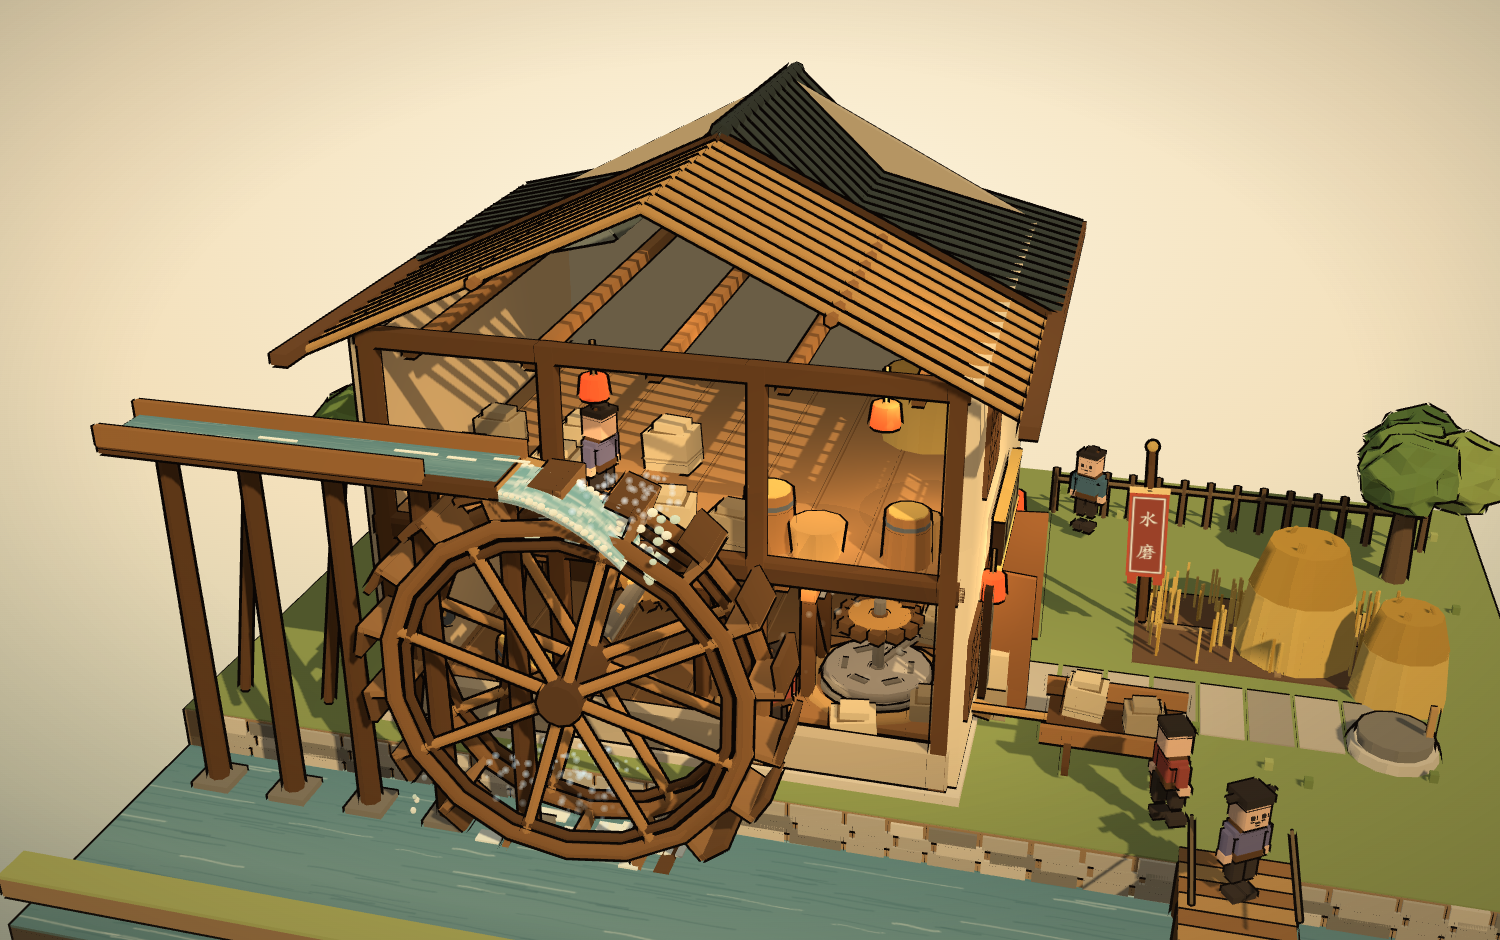
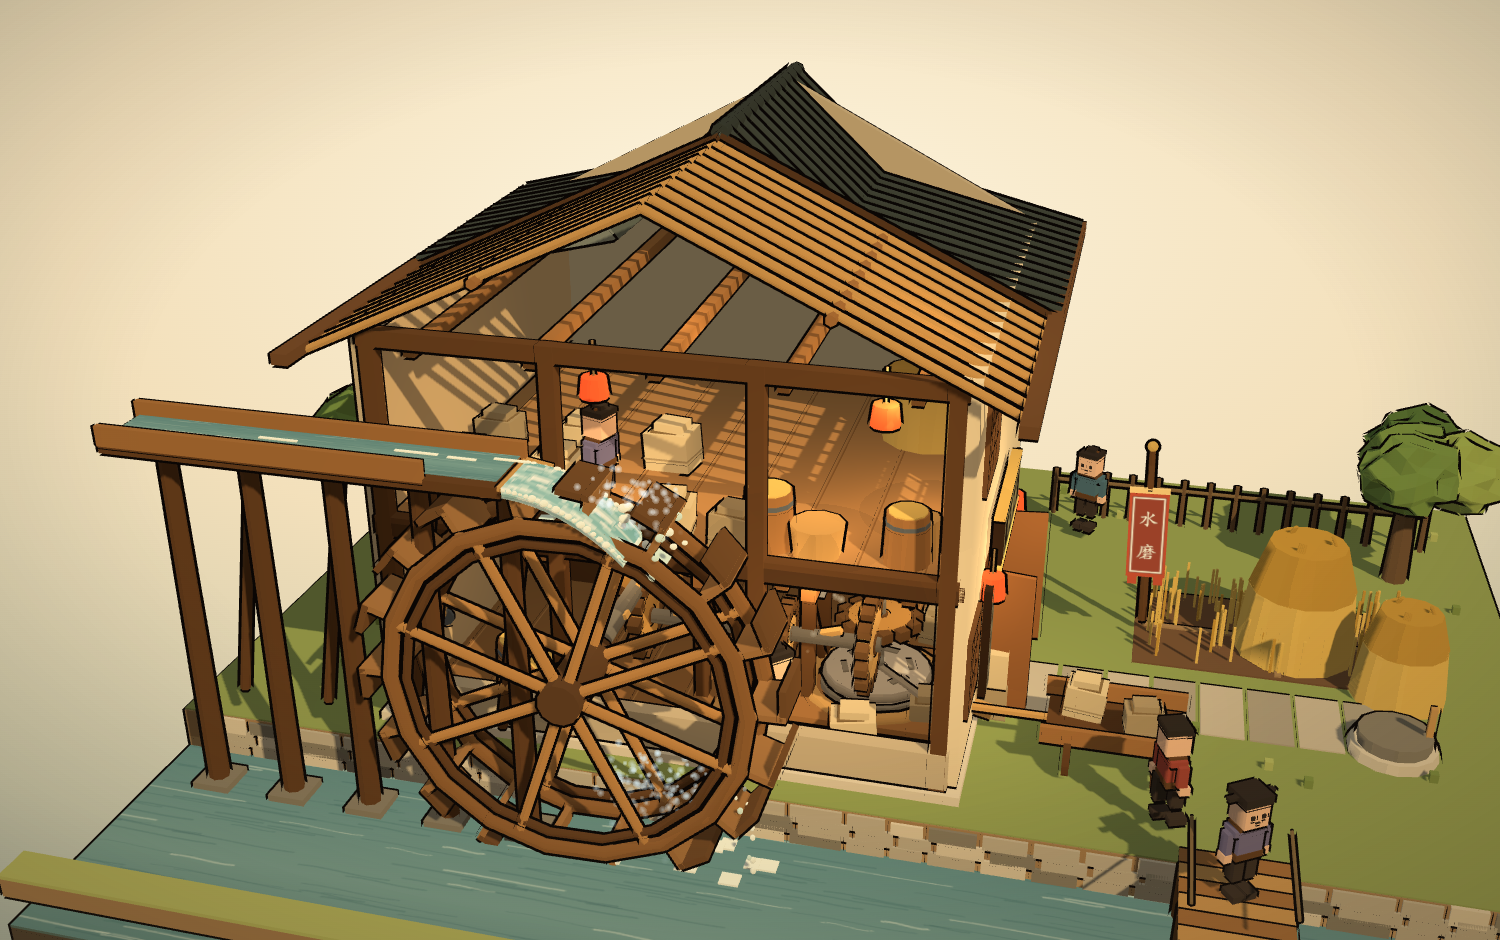
fix(mill): 水车转向改为与水流同向，倒水与浪花同步移到轮右侧

Changed region(s): [[0.184, 0.4936, 0.6133, 0.9564]]

diff --git a/docs/mill.html b/docs/mill.html
@@ -17078,24 +17078,27 @@ function buildMlAll() {
   const fall = mlFallGroup();
   g.add(fall);
 
-  const spray = mlPoints(130, '0.88,0.96,0.98', 210.0, 0.62, 1.35, [1.9, 0.25, 1.0]);
-  spray.p.position.set(ML_WCX - 0.35, ML_WY + 0.18, ML_WCZ);
+  const spray = mlPoints(130, '0.88,0.96,0.98', 210.0, 0.62, 1.35, [1.25, 0.25, 0.95]);
+  /* 轮底不入水（轮底 y=-0.30 / 水面 -0.55），水雾要跟着右侧倒水点走 */
+  spray.p.position.set(ML_WCX + 1.15, ML_WY + 0.18, ML_WCZ);
   g.add(spray.p);
   const dust = mlPoints(64, '0.96,0.90,0.76', 155.0, 0.14, 2.10, [3.4, 0.35, 2.2]);
   dust.p.position.set(-0.60, ML_LY + 0.95, 1.60);
   g.add(dust.p);
   /* 水舌砸进轮斗的飞溅：位置贴冲击点，上抛后回落 */
   const impact = mlPoints(90, '0.97,1.00,1.00', 250.0, 0.95, 0.85, [1.10, 0.35, 0.85]);
-  impact.p.position.set(-2.62, 4.94, ML_WCZ + 0.30);
+  impact.p.position.set(-2.62, 4.94, ML_WCZ + 0.20);
   g.add(impact.p);
 
   mlLights();
 
   const spins = [];
   CT_ANIM.push(function (t) {
-    wheel.rotation.z = t * 0.42;
-    shaft.rotation.x = -t * 0.42;
-    stone.rotation.y = t * 0.96;
+    /* 水从 -x 冲向 +x、砸在轮顶偏 +x 的斗上 → 力矩顺时针，rotation.z 必须取负。
+       顺时针时轮顶表面速度也朝 +x，与水同向；轮反转后长轴、竖轴、磨盘全部跟着反。 */
+    wheel.rotation.z = -t * 0.42;
+    shaft.rotation.x = t * 0.42;
+    stone.rotation.y = -t * 0.96;
     /* 两张水贴图的 offset 才真的让「水在流」：水舌快、槽内慢、河面最慢 */
     fall.userData.jetTex.offset.x = -t * 0.62;
     fall.userData.jetTex.offset.y = Math.sin(t * 1.25) * 0.006;
@@ -17134,7 +17137,7 @@ function mlSignBoards(b) {
 /* 落水：槽口 → 连续水舌 → 砸进轮斗 → 飞溅 → 随轮倒出 → 轮底浪花 */
 function mlFallGroup() {
   const g = new T.Group(), b = new Builder();
-  const zc = ML_WCZ + 0.30;
+  const zc = ML_WCZ + 0.20;
   /* 起点贴着跌水唇，终点落在轮顶偏下游（约 70°）的斗口里。
      水平 1.75m / 下落 0.82m，用 u² 让水先平抛、再加速砸下去。 */
   const p0 = [-4.30, 5.70], p1 = [-2.55, 4.88];
@@ -17181,18 +17184,18 @@ function mlFallGroup() {
     const py = ML_WCY + Math.sin(a) * (ML_WR - 0.13);
     b.box('mlSpray', 0.22, 0.050, 0.56, px, py, zc, 0, 0, a - Math.PI / 2);
   }
-  /* 水被斗带着转到左侧倒出：散碎下落的水滴，绝不拉成长白线 */
+  /* 顺时针转：水在轮顶接住后沿右侧下行倒出，水滴必须在 +x 侧 */
   for (let i = 0; i < 12; i++) {
     const u = i / 11;
     b.sph(i % 3 ? 'mlFoam' : 'mlSpray', 0.028 + mlR(i * 4.3) * 0.030,
-      -5.98 - u * 0.34,
-      1.40 - u * 1.60,
+      -1.14 + u * 0.30,
+      1.02 - u * 1.38,
       zc - 0.18 + (mlR(i * 6.1) - 0.5) * 0.58, 1, 1.2, 1);
   }
-  /* 轮底砸进河面的浪花：贴水面的一排碎白片 */
+  /* 轮右下倒水处的河面浪花：贴水面的一排碎白片 */
   for (let i = 0; i < 11; i++) {
     b.box('mlFoam', 0.22 + mlR(i * 3.3) * 0.20, 0.035, 0.26,
-      ML_WCX - 1.45 + i * 0.29, ML_WY + 0.085,
+      ML_WCX + 0.52 + i * 0.24, ML_WY + 0.085,
       ML_WCZ + (mlR(i * 5.7) - 0.5) * 1.05);
   }
   b.build(g, { noOutline: ['mlFoam', 'mlSpray'] });

diff --git a/src/scene.js b/src/scene.js
@@ -16901,24 +16901,27 @@ function buildMlAll() {
   const fall = mlFallGroup();
   g.add(fall);
 
-  const spray = mlPoints(130, '0.88,0.96,0.98', 210.0, 0.62, 1.35, [1.9, 0.25, 1.0]);
-  spray.p.position.set(ML_WCX - 0.35, ML_WY + 0.18, ML_WCZ);
+  const spray = mlPoints(130, '0.88,0.96,0.98', 210.0, 0.62, 1.35, [1.25, 0.25, 0.95]);
+  /* 轮底不入水（轮底 y=-0.30 / 水面 -0.55），水雾要跟着右侧倒水点走 */
+  spray.p.position.set(ML_WCX + 1.15, ML_WY + 0.18, ML_WCZ);
   g.add(spray.p);
   const dust = mlPoints(64, '0.96,0.90,0.76', 155.0, 0.14, 2.10, [3.4, 0.35, 2.2]);
   dust.p.position.set(-0.60, ML_LY + 0.95, 1.60);
   g.add(dust.p);
   /* 水舌砸进轮斗的飞溅：位置贴冲击点，上抛后回落 */
   const impact = mlPoints(90, '0.97,1.00,1.00', 250.0, 0.95, 0.85, [1.10, 0.35, 0.85]);
-  impact.p.position.set(-2.62, 4.94, ML_WCZ + 0.30);
+  impact.p.position.set(-2.62, 4.94, ML_WCZ + 0.20);
   g.add(impact.p);
 
   mlLights();
 
   const spins = [];
   CT_ANIM.push(function (t) {
-    wheel.rotation.z = t * 0.42;
-    shaft.rotation.x = -t * 0.42;
-    stone.rotation.y = t * 0.96;
+    /* 水从 -x 冲向 +x、砸在轮顶偏 +x 的斗上 → 力矩顺时针，rotation.z 必须取负。
+       顺时针时轮顶表面速度也朝 +x，与水同向；轮反转后长轴、竖轴、磨盘全部跟着反。 */
+    wheel.rotation.z = -t * 0.42;
+    shaft.rotation.x = t * 0.42;
+    stone.rotation.y = -t * 0.96;
     /* 两张水贴图的 offset 才真的让「水在流」：水舌快、槽内慢、河面最慢 */
     fall.userData.jetTex.offset.x = -t * 0.62;
     fall.userData.jetTex.offset.y = Math.sin(t * 1.25) * 0.006;
@@ -16957,7 +16960,7 @@ function mlSignBoards(b) {
 /* 落水：槽口 → 连续水舌 → 砸进轮斗 → 飞溅 → 随轮倒出 → 轮底浪花 */
 function mlFallGroup() {
   const g = new T.Group(), b = new Builder();
-  const zc = ML_WCZ + 0.30;
+  const zc = ML_WCZ + 0.20;
   /* 起点贴着跌水唇，终点落在轮顶偏下游（约 70°）的斗口里。
      水平 1.75m / 下落 0.82m，用 u² 让水先平抛、再加速砸下去。 */
   const p0 = [-4.30, 5.70], p1 = [-2.55, 4.88];
@@ -17004,18 +17007,18 @@ function mlFallGroup() {
     const py = ML_WCY + Math.sin(a) * (ML_WR - 0.13);
     b.box('mlSpray', 0.22, 0.050, 0.56, px, py, zc, 0, 0, a - Math.PI / 2);
   }
-  /* 水被斗带着转到左侧倒出：散碎下落的水滴，绝不拉成长白线 */
+  /* 顺时针转：水在轮顶接住后沿右侧下行倒出，水滴必须在 +x 侧 */
   for (let i = 0; i < 12; i++) {
     const u = i / 11;
     b.sph(i % 3 ? 'mlFoam' : 'mlSpray', 0.028 + mlR(i * 4.3) * 0.030,
-      -5.98 - u * 0.34,
-      1.40 - u * 1.60,
+      -1.14 + u * 0.30,
+      1.02 - u * 1.38,
       zc - 0.18 + (mlR(i * 6.1) - 0.5) * 0.58, 1, 1.2, 1);
   }
-  /* 轮底砸进河面的浪花：贴水面的一排碎白片 */
+  /* 轮右下倒水处的河面浪花：贴水面的一排碎白片 */
   for (let i = 0; i < 11; i++) {
     b.box('mlFoam', 0.22 + mlR(i * 3.3) * 0.20, 0.035, 0.26,
-      ML_WCX - 1.45 + i * 0.29, ML_WY + 0.085,
+      ML_WCX + 0.52 + i * 0.24, ML_WY + 0.085,
       ML_WCZ + (mlR(i * 5.7) - 0.5) * 1.05);
   }
   b.build(g, { noOutline: ['mlFoam', 'mlSpray'] });

diff --git a/README.md b/README.md
@@ -338,9 +338,9 @@ node build.js city store # 构建指定的几个
 
 ```js
 CT_ANIM.push(function (t) {
-  wheel.rotation.z =  t * 0.42;   // 上击式水车（含穿墙主轴）
-  shaft.rotation.x = -t * 0.42;   // 室内长轴，反向
-  stone.rotation.y =  t * 0.96;   // 竖轴 + 磨盘上扇，增速
+  wheel.rotation.z = -t * 0.42;   // 上击式水车：水从 -x 冲来 → 顺时针
+  shaft.rotation.x =  t * 0.42;   // 室内长轴，反向
+  stone.rotation.y = -t * 0.96;   // 竖轴 + 磨盘上扇，再反向
   fall.userData.jetTex.offset.x = -t * 0.62;  // 水舌流纹（最快）
   channelTex.offset.x = -t * 0.26;           // 槽内水面
   waterTex.offset.x = -t * 0.055;            // 河面（最慢）
@@ -350,8 +350,15 @@ CT_ANIM.push(function (t) {
 
 每个动态件**用自己的 `Builder` 在局部坐标里建，再挂到独立 `T.Group`** —— 进主场景的
 合批就转不动了。轮轴沿 `-z` 穿墙、长轴沿 `x`、竖轴沿 `y`，三级换向靠三对咬合齿轮
-在视觉上交代清楚；`window.__ml.getSpin()` 暴露三个角度，用 playwright 隔 2.5 秒采样
-两次验证确实在转（实测 `0.336 / -0.336 / 0.768`，比例与速率设定一致）。
+在视觉上交代清楚；`window.__ml.getSpin()` 暴露三个角度，用 playwright 在同一帧取两次
+样本，按**每秒速率**核对方向与比例（实测 `-0.42 / +0.42 / -0.96`）。
+
+**转向必须由水流方向推出来，不能凭感觉写**。水从 `-x` 冲向 `+x`、砸在轮顶偏 `+x`
+（约 67°）的斗上，力矩 `τ = r × F` 在 `z` 轴为负 → 轮必须**顺时针**（`rotation.z`
+递减）。顺时针时轮顶表面速度也朝 `+x`，与水同向；轮斗外挡板在切向 `+0.50`
+（运动前方），开口朝 `-x`，水从上游进斗、被挡板兜住才兜得住。倒水点在轮右侧
+（约 4 点钟），所以轮侧水滴、河面浪花、水雾粒子全部要跟着搬到 `+x` 侧 ——
+只翻轮子不搬水花，会出现「水往左倒」的新破绽。
 
 八条踩过的坑：
 
@@ -388,7 +395,7 @@ CT_ANIM.push(function (t) {
 
 `window.__ml.getFlow()` 暴露 `[水舌 offset, 槽内 offset, 飞溅时间]`。playwright 隔 2.5 秒
 采样两次，验的是**每秒速率比**而不是绝对位移 —— 软渲染只有几 fps，2.5 秒真实时间
-未必推进 2.5 秒 `t`；实测 `jet -0.62 / channel -0.26 / wheel +0.42`，与设定完全一致。
+未必推进 2.5 秒 `t`；实测 `jet -0.62 / channel -0.26 / wheel -0.42`，与设定完全一致。
 
 定稿 165 mesh / 51633 三角，`magenta:[] / errors:[]`；18 套全量回归全绿。
 
